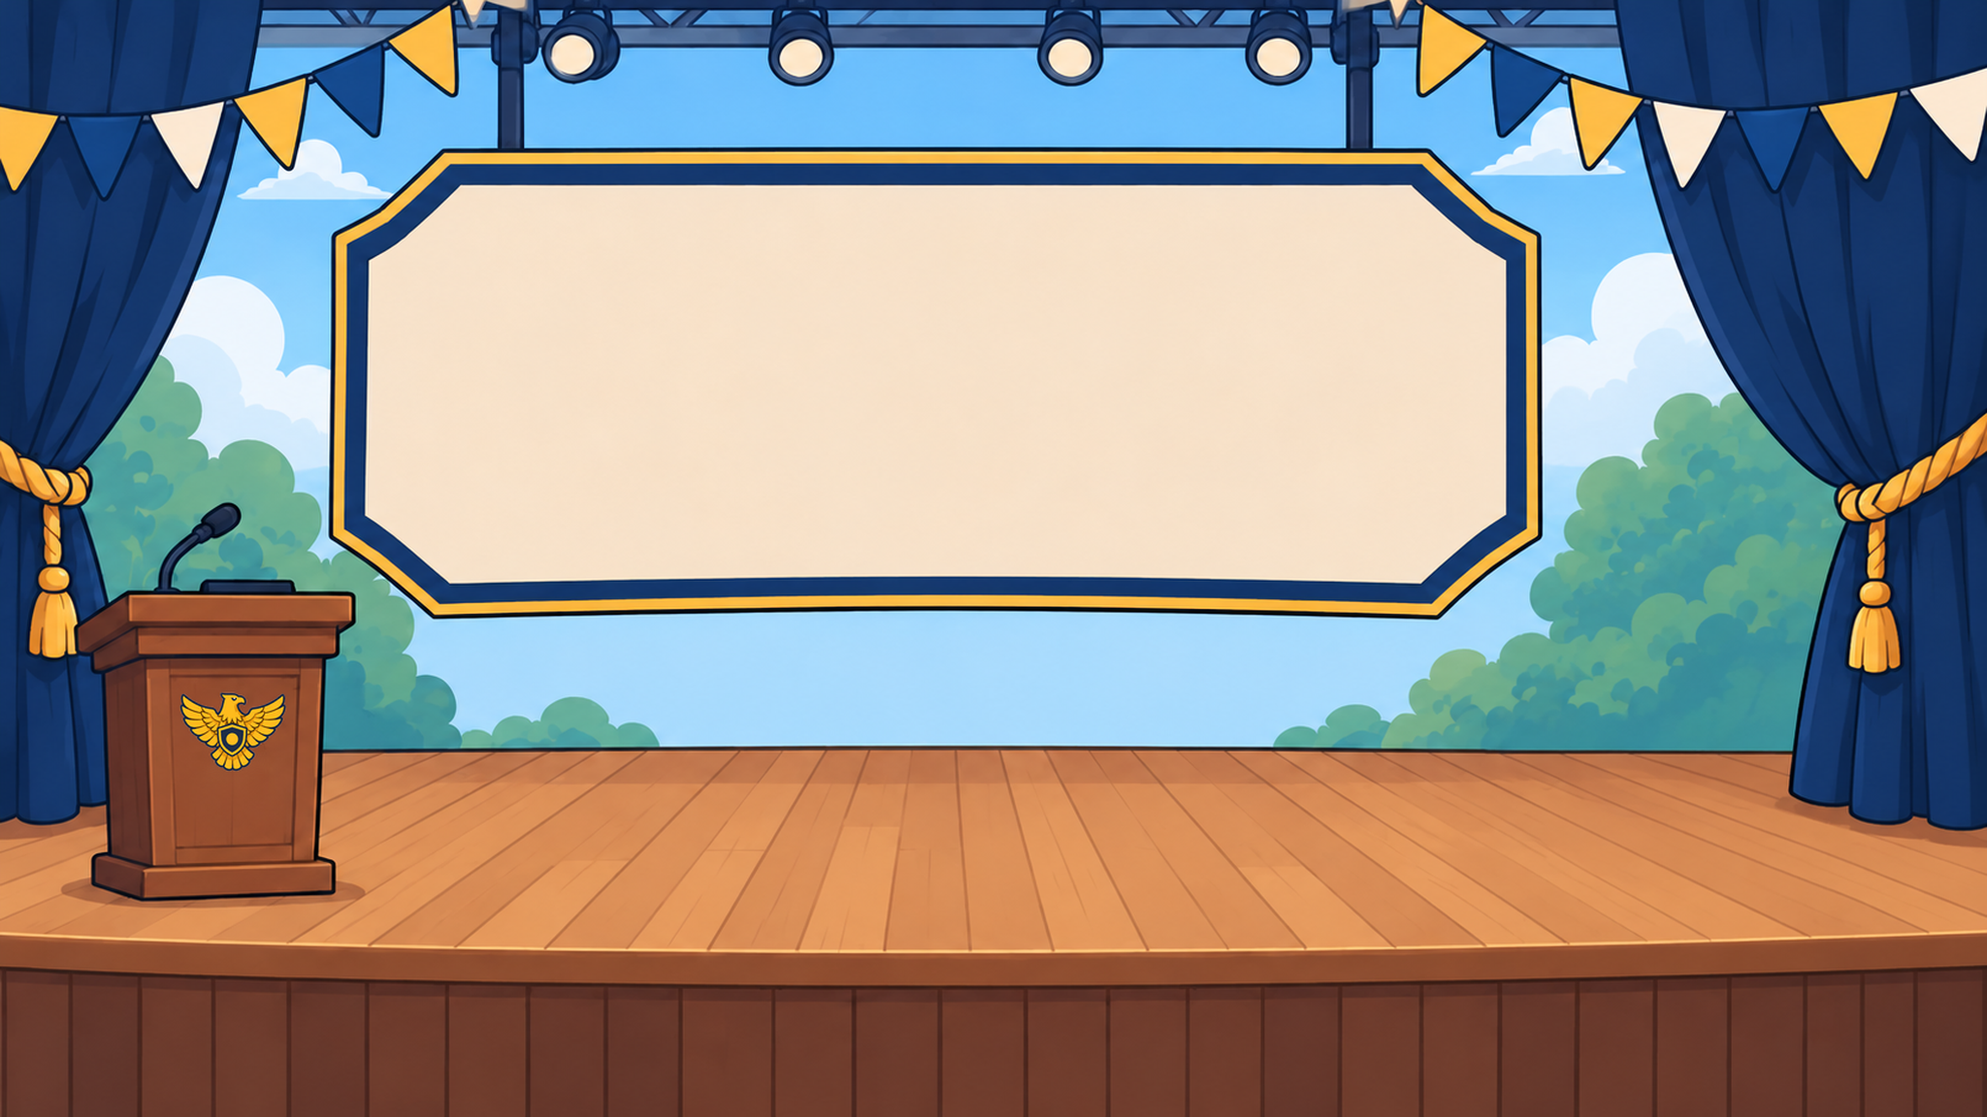
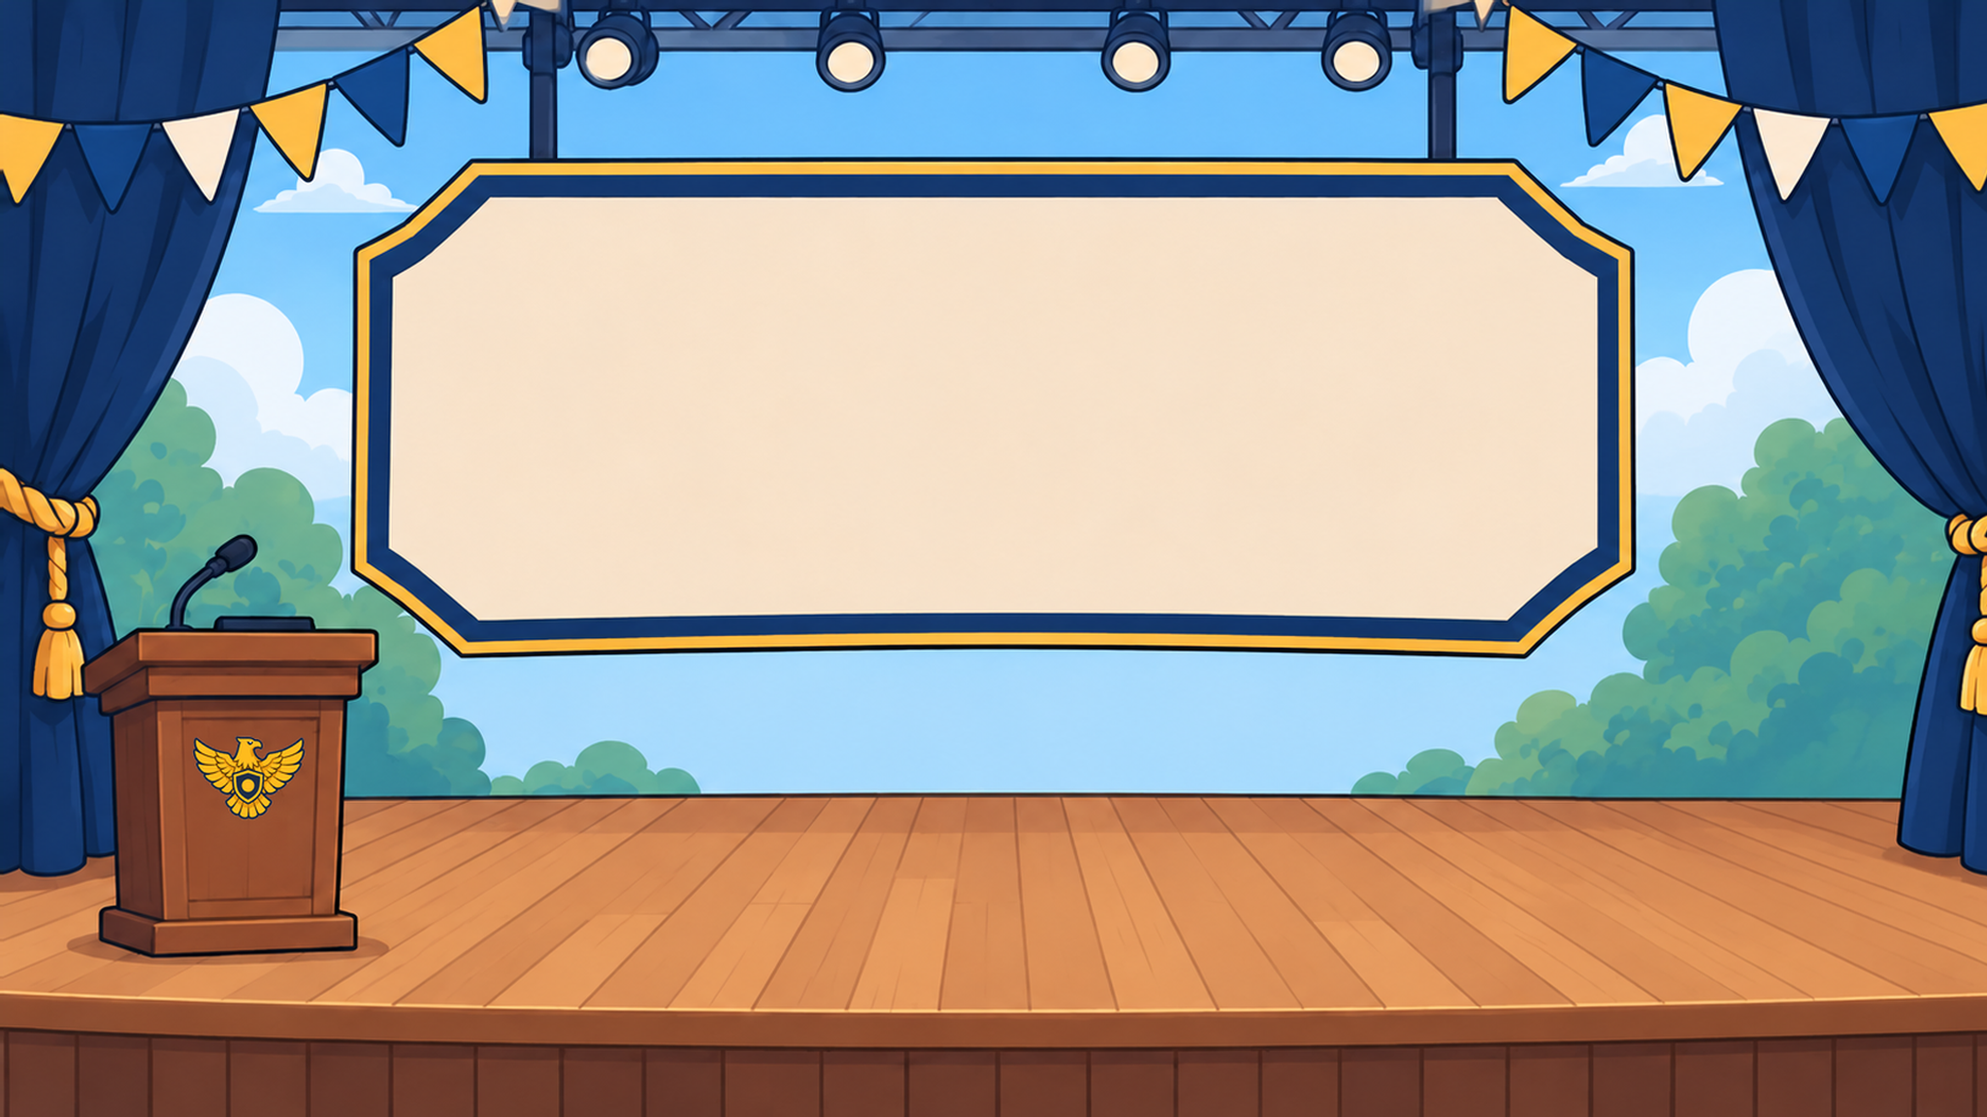
시작 화면 → 다음 화면 전환 자연스럽게: 배경 무대 위치 맞춤 + 크로스 페이드
- 대기(PC)·직업 선택(모바일) 배경이 시작 화면 무대를 6% 줄인 그림이라 넘어갈 때 간판·연단이 움직여 보였음
  → 시작 화면과 같은 위치·크기로 맞춘 그림으로 교체 (.meta·GUID 그대로)
- SceneTransition: 이전 화면을 찍어 덮고 다음 씬에서 0.45초 동안 녹아들게 (시작→대기→오프닝, 연결→직업 선택→로비)
- 문구·글자 정리 메뉴: 대기 화면 배경을 시작 화면과 같은 가운데 1920x1080, 간판 위 글자 x 0, PC 엔딩·대기 Canvas 가로 기준

Claude-Session: https://claude.ai/code/session_01DfUZ12cE8i6qKpHapnU7sm

diff --git a/MoblieClient/Assets/Editor/PeaceMakerTextPolish.cs b/MoblieClient/Assets/Editor/PeaceMakerTextPolish.cs
@@ -36,8 +36,9 @@ public static class PeaceMakerTextPolish
         // ───────── PC ─────────
         new E("HostPc", "PopupPanel/PopupTitle", "참가 인원을 선택하세요"),
         new E("HostPc", "Canvas/StatusText", ""),                                   // 쓰지 않는 글자 (경찰 그림 위에 겹쳐 보였음)
-        new E("WaitingScene", "Canvas/StatusText", "휴대폰에서 [연결]을 눌러 주세요"),
-        new E("WaitingScene", "Canvas/ConnectedText", "연결된 휴대폰  0 / 4"),
+        // 대기 화면 배경 간판이 시작 화면과 같은 가운데로 옮겨져서, 글자도 가운데(x 0)로
+        new E("WaitingScene", "Canvas/StatusText", "휴대폰에서 [연결]을 눌러 주세요", 0, 0, 0, 0, 50),
+        new E("WaitingScene", "Canvas/ConnectedText", "연결된 휴대폰  0 / 4", 0, 0, 0, 0, 250),
         new E("PC_LobbyScene", "Canvas/LobbyText", "수사 진행 중", 0, 800, 120),
         new E("PC_LobbyScene", "Canvas/ConnectedText", "연결된 휴대폰  0 / 4", 48, 700, 80, -370, 60),
         new E("PC_LobbyScene", "Canvas/TimerText", null, 0, 300, 100, -170, -70),
@@ -62,8 +63,8 @@ public static class PeaceMakerTextPolish
 
         // ───────── 모바일 ─────────
         new E("ClientMobile", "Canvas/StatusText", ""),
-        new E("JobSelectScene", "Canvas/TitleText", "직업을 선택하세요"),
-        new E("JobSelectScene", "Canvas/StatusText", ""),
+        new E("JobSelectScene", "Canvas/TitleText", "직업을 선택하세요", 0, 0, 0, 0, -250),   // 간판 가운데 (x -45 → 0)
+        new E("JobSelectScene", "Canvas/StatusText", "", 0, 0, 0, 0, 125),
         new E("JobSelectScene", "JobPopup/PopupJobName", ""),
         new E("JobSelectScene", "JobPopup/PopupJobDesc", ""),
         new E("Mobile_LobbyScene", "Canvas/TitleText", "수사 본부", 0, 600, 150),
@@ -210,7 +211,7 @@ public static class PeaceMakerTextPolish
             foreach (var root in scene.GetRootGameObjects())
                 foreach (var cs in root.GetComponentsInChildren<CanvasScaler>(true))
                 {
-                    if (cs.uiScaleMode == CanvasScaler.ScaleMode.ScaleWithScreenSize && cs.referenceResolution == new Vector2(1920, 1080)) continue;
+                    if (cs.uiScaleMode == CanvasScaler.ScaleMode.ScaleWithScreenSize && cs.referenceResolution == new Vector2(1920, 1080) && cs.matchWidthOrHeight == 0f) continue;
                     log.AppendLine($"  {cs.name}: Canvas Scaler → 화면 크기에 맞춤 (1920×1080)");
                     changes++;
                     if (dry) continue;
@@ -218,10 +219,27 @@ public static class PeaceMakerTextPolish
                     cs.uiScaleMode = CanvasScaler.ScaleMode.ScaleWithScreenSize;
                     cs.referenceResolution = new Vector2(1920, 1080);
                     cs.screenMatchMode = CanvasScaler.ScreenMatchMode.MatchWidthOrHeight;
-                    cs.matchWidthOrHeight = 0.5f;
+                    cs.matchWidthOrHeight = 0f;                       // 다른 PC 화면과 같게 (가로 기준)
                 }
 
-        // 5) 용의자 카드 배경판
+        // 5) PC 대기 화면 배경: 시작 화면과 똑같이 가운데 1920×1080 (늘이기 → 고정)
+        //    배경 그림도 시작 화면 무대와 같은 위치·크기로 맞춰 두었으므로, 넘어갈 때 그림이 움직이지 않음
+        if (scene.name == "WaitingScene")
+            foreach (var root in scene.GetRootGameObjects())
+                foreach (var rt in root.GetComponentsInChildren<RectTransform>(true))
+                {
+                    if (rt.name != "WaitingBackground") continue;
+                    var c = new Vector2(0.5f, 0.5f);
+                    if (rt.anchorMin == c && rt.anchorMax == c && rt.sizeDelta == new Vector2(1920, 1080) && rt.anchoredPosition == Vector2.zero) continue;
+                    log.AppendLine("  WaitingBackground: 화면 늘이기 → 시작 화면과 같은 가운데 1920×1080");
+                    changes++;
+                    if (dry) continue;
+                    Undo.RecordObject(rt, "문구 정리");
+                    rt.anchorMin = rt.anchorMax = c; rt.pivot = c;
+                    rt.sizeDelta = new Vector2(1920, 1080); rt.anchoredPosition = Vector2.zero;
+                }
+
+        // 6) 용의자 카드 배경판
         if (scene.name == "SuspectScene") CardBacks(scene);
     }
 

diff --git a/PCHost/Assets/Editor/PeaceMakerTextPolish.cs b/PCHost/Assets/Editor/PeaceMakerTextPolish.cs
@@ -36,8 +36,9 @@ public static class PeaceMakerTextPolish
         // ───────── PC ─────────
         new E("HostPc", "PopupPanel/PopupTitle", "참가 인원을 선택하세요"),
         new E("HostPc", "Canvas/StatusText", ""),                                   // 쓰지 않는 글자 (경찰 그림 위에 겹쳐 보였음)
-        new E("WaitingScene", "Canvas/StatusText", "휴대폰에서 [연결]을 눌러 주세요"),
-        new E("WaitingScene", "Canvas/ConnectedText", "연결된 휴대폰  0 / 4"),
+        // 대기 화면 배경 간판이 시작 화면과 같은 가운데로 옮겨져서, 글자도 가운데(x 0)로
+        new E("WaitingScene", "Canvas/StatusText", "휴대폰에서 [연결]을 눌러 주세요", 0, 0, 0, 0, 50),
+        new E("WaitingScene", "Canvas/ConnectedText", "연결된 휴대폰  0 / 4", 0, 0, 0, 0, 250),
         new E("PC_LobbyScene", "Canvas/LobbyText", "수사 진행 중", 0, 800, 120),
         new E("PC_LobbyScene", "Canvas/ConnectedText", "연결된 휴대폰  0 / 4", 48, 700, 80, -370, 60),
         new E("PC_LobbyScene", "Canvas/TimerText", null, 0, 300, 100, -170, -70),
@@ -62,8 +63,8 @@ public static class PeaceMakerTextPolish
 
         // ───────── 모바일 ─────────
         new E("ClientMobile", "Canvas/StatusText", ""),
-        new E("JobSelectScene", "Canvas/TitleText", "직업을 선택하세요"),
-        new E("JobSelectScene", "Canvas/StatusText", ""),
+        new E("JobSelectScene", "Canvas/TitleText", "직업을 선택하세요", 0, 0, 0, 0, -250),   // 간판 가운데 (x -45 → 0)
+        new E("JobSelectScene", "Canvas/StatusText", "", 0, 0, 0, 0, 125),
         new E("JobSelectScene", "JobPopup/PopupJobName", ""),
         new E("JobSelectScene", "JobPopup/PopupJobDesc", ""),
         new E("Mobile_LobbyScene", "Canvas/TitleText", "수사 본부", 0, 600, 150),
@@ -210,7 +211,7 @@ public static class PeaceMakerTextPolish
             foreach (var root in scene.GetRootGameObjects())
                 foreach (var cs in root.GetComponentsInChildren<CanvasScaler>(true))
                 {
-                    if (cs.uiScaleMode == CanvasScaler.ScaleMode.ScaleWithScreenSize && cs.referenceResolution == new Vector2(1920, 1080)) continue;
+                    if (cs.uiScaleMode == CanvasScaler.ScaleMode.ScaleWithScreenSize && cs.referenceResolution == new Vector2(1920, 1080) && cs.matchWidthOrHeight == 0f) continue;
                     log.AppendLine($"  {cs.name}: Canvas Scaler → 화면 크기에 맞춤 (1920×1080)");
                     changes++;
                     if (dry) continue;
@@ -218,10 +219,27 @@ public static class PeaceMakerTextPolish
                     cs.uiScaleMode = CanvasScaler.ScaleMode.ScaleWithScreenSize;
                     cs.referenceResolution = new Vector2(1920, 1080);
                     cs.screenMatchMode = CanvasScaler.ScreenMatchMode.MatchWidthOrHeight;
-                    cs.matchWidthOrHeight = 0.5f;
+                    cs.matchWidthOrHeight = 0f;                       // 다른 PC 화면과 같게 (가로 기준)
                 }
 
-        // 5) 용의자 카드 배경판
+        // 5) PC 대기 화면 배경: 시작 화면과 똑같이 가운데 1920×1080 (늘이기 → 고정)
+        //    배경 그림도 시작 화면 무대와 같은 위치·크기로 맞춰 두었으므로, 넘어갈 때 그림이 움직이지 않음
+        if (scene.name == "WaitingScene")
+            foreach (var root in scene.GetRootGameObjects())
+                foreach (var rt in root.GetComponentsInChildren<RectTransform>(true))
+                {
+                    if (rt.name != "WaitingBackground") continue;
+                    var c = new Vector2(0.5f, 0.5f);
+                    if (rt.anchorMin == c && rt.anchorMax == c && rt.sizeDelta == new Vector2(1920, 1080) && rt.anchoredPosition == Vector2.zero) continue;
+                    log.AppendLine("  WaitingBackground: 화면 늘이기 → 시작 화면과 같은 가운데 1920×1080");
+                    changes++;
+                    if (dry) continue;
+                    Undo.RecordObject(rt, "문구 정리");
+                    rt.anchorMin = rt.anchorMax = c; rt.pivot = c;
+                    rt.sizeDelta = new Vector2(1920, 1080); rt.anchoredPosition = Vector2.zero;
+                }
+
+        // 6) 용의자 카드 배경판
         if (scene.name == "SuspectScene") CardBacks(scene);
     }
 

diff --git a/MoblieClient/Assets/Scripts/UI/SceneTransition.cs b/MoblieClient/Assets/Scripts/UI/SceneTransition.cs
@@ -1,0 +1,94 @@
+using System.Collections;
+using UnityEngine;
+using UnityEngine.SceneManagement;
+using UnityEngine.UI;
+
+/// <summary>
+/// 화면 전환을 부드럽게: 지금 화면을 찍어 맨 위에 덮어 둔 채로 다음 씬을 불러오고,
+/// 그 사진을 천천히 투명하게 해서 이전 화면이 다음 화면으로 자연스럽게 녹아들게 합니다 (크로스 페이드).
+/// 사용: SceneManager.LoadScene("이름") 대신 SceneTransition.Load("이름")
+/// 씬에 따로 넣을 것은 없습니다 (처음 쓸 때 저절로 만들어지고 씬이 바뀌어도 남아 있음).
+/// </summary>
+public static class SceneTransition
+{
+    public const float DefaultFade = 0.45f;
+
+    public static void Load(string sceneName, float fadeSeconds = DefaultFade)
+    {
+        Runner.Get().Go(sceneName, fadeSeconds);
+    }
+
+    private class Runner : MonoBehaviour
+    {
+        private static Runner _inst;
+        private bool _busy;
+
+        public static Runner Get()
+        {
+            if (_inst == null)
+            {
+                var go = new GameObject("[SceneTransition]");
+                DontDestroyOnLoad(go);
+                _inst = go.AddComponent<Runner>();
+            }
+            return _inst;
+        }
+
+        public void Go(string sceneName, float fade)
+        {
+            if (_busy) { SceneManager.LoadScene(sceneName); return; }   // 전환 중에 또 부르면 바로 이동
+            StartCoroutine(Run(sceneName, fade));
+        }
+
+        private IEnumerator Run(string sceneName, float fade)
+        {
+            _busy = true;
+
+            // 1) 지금 화면을 그대로 찍어 둠
+            yield return new WaitForEndOfFrame();
+            Texture2D shot = null;
+            try { shot = ScreenCapture.CaptureScreenshotAsTexture(); } catch { shot = null; }
+
+            GameObject cover = null;
+            CanvasGroup group = null;
+            if (shot != null)
+            {
+                cover = new GameObject("Cover", typeof(RectTransform), typeof(Canvas), typeof(CanvasGroup), typeof(GraphicRaycaster));
+                cover.transform.SetParent(transform, false);
+                var canvas = cover.GetComponent<Canvas>();
+                canvas.renderMode = RenderMode.ScreenSpaceOverlay;
+                canvas.sortingOrder = 32000;                         // 모든 UI 보다 위
+                group = cover.GetComponent<CanvasGroup>();
+                group.blocksRaycasts = true;                         // 전환 중 두 번 눌리지 않게
+
+                var img = new GameObject("Shot", typeof(RectTransform), typeof(RawImage));
+                img.transform.SetParent(cover.transform, false);
+                var rt = (RectTransform)img.transform;
+                rt.anchorMin = Vector2.zero; rt.anchorMax = Vector2.one;
+                rt.offsetMin = Vector2.zero; rt.offsetMax = Vector2.zero;
+                img.GetComponent<RawImage>().texture = shot;
+            }
+
+            // 2) 다음 씬 불러오기 (원래와 같은 방식)
+            SceneManager.LoadScene(sceneName);
+            yield return null;
+            yield return null;                                       // 새 씬의 첫 화면이 그려질 때까지
+
+            // 3) 찍어 둔 이전 화면을 천천히 투명하게
+            if (group != null)
+            {
+                float t = 0f;
+                while (t < fade)
+                {
+                    t += Time.unscaledDeltaTime;
+                    group.alpha = 1f - Mathf.SmoothStep(0f, 1f, t / fade);
+                    yield return null;
+                }
+            }
+
+            if (cover != null) Destroy(cover);
+            if (shot != null) Destroy(shot);
+            _busy = false;
+        }
+    }
+}

diff --git a/PCHost/Assets/Scripts/UI/SceneTransition.cs b/PCHost/Assets/Scripts/UI/SceneTransition.cs
@@ -1,0 +1,94 @@
+using System.Collections;
+using UnityEngine;
+using UnityEngine.SceneManagement;
+using UnityEngine.UI;
+
+/// <summary>
+/// 화면 전환을 부드럽게: 지금 화면을 찍어 맨 위에 덮어 둔 채로 다음 씬을 불러오고,
+/// 그 사진을 천천히 투명하게 해서 이전 화면이 다음 화면으로 자연스럽게 녹아들게 합니다 (크로스 페이드).
+/// 사용: SceneManager.LoadScene("이름") 대신 SceneTransition.Load("이름")
+/// 씬에 따로 넣을 것은 없습니다 (처음 쓸 때 저절로 만들어지고 씬이 바뀌어도 남아 있음).
+/// </summary>
+public static class SceneTransition
+{
+    public const float DefaultFade = 0.45f;
+
+    public static void Load(string sceneName, float fadeSeconds = DefaultFade)
+    {
+        Runner.Get().Go(sceneName, fadeSeconds);
+    }
+
+    private class Runner : MonoBehaviour
+    {
+        private static Runner _inst;
+        private bool _busy;
+
+        public static Runner Get()
+        {
+            if (_inst == null)
+            {
+                var go = new GameObject("[SceneTransition]");
+                DontDestroyOnLoad(go);
+                _inst = go.AddComponent<Runner>();
+            }
+            return _inst;
+        }
+
+        public void Go(string sceneName, float fade)
+        {
+            if (_busy) { SceneManager.LoadScene(sceneName); return; }   // 전환 중에 또 부르면 바로 이동
+            StartCoroutine(Run(sceneName, fade));
+        }
+
+        private IEnumerator Run(string sceneName, float fade)
+        {
+            _busy = true;
+
+            // 1) 지금 화면을 그대로 찍어 둠
+            yield return new WaitForEndOfFrame();
+            Texture2D shot = null;
+            try { shot = ScreenCapture.CaptureScreenshotAsTexture(); } catch { shot = null; }
+
+            GameObject cover = null;
+            CanvasGroup group = null;
+            if (shot != null)
+            {
+                cover = new GameObject("Cover", typeof(RectTransform), typeof(Canvas), typeof(CanvasGroup), typeof(GraphicRaycaster));
+                cover.transform.SetParent(transform, false);
+                var canvas = cover.GetComponent<Canvas>();
+                canvas.renderMode = RenderMode.ScreenSpaceOverlay;
+                canvas.sortingOrder = 32000;                         // 모든 UI 보다 위
+                group = cover.GetComponent<CanvasGroup>();
+                group.blocksRaycasts = true;                         // 전환 중 두 번 눌리지 않게
+
+                var img = new GameObject("Shot", typeof(RectTransform), typeof(RawImage));
+                img.transform.SetParent(cover.transform, false);
+                var rt = (RectTransform)img.transform;
+                rt.anchorMin = Vector2.zero; rt.anchorMax = Vector2.one;
+                rt.offsetMin = Vector2.zero; rt.offsetMax = Vector2.zero;
+                img.GetComponent<RawImage>().texture = shot;
+            }
+
+            // 2) 다음 씬 불러오기 (원래와 같은 방식)
+            SceneManager.LoadScene(sceneName);
+            yield return null;
+            yield return null;                                       // 새 씬의 첫 화면이 그려질 때까지
+
+            // 3) 찍어 둔 이전 화면을 천천히 투명하게
+            if (group != null)
+            {
+                float t = 0f;
+                while (t < fade)
+                {
+                    t += Time.unscaledDeltaTime;
+                    group.alpha = 1f - Mathf.SmoothStep(0f, 1f, t / fade);
+                    yield return null;
+                }
+            }
+
+            if (cover != null) Destroy(cover);
+            if (shot != null) Destroy(shot);
+            _busy = false;
+        }
+    }
+}

diff --git a/MoblieClient/Assets/Scripts/GameManager.cs b/MoblieClient/Assets/Scripts/GameManager.cs
@@ -115,8 +115,7 @@ public class GameManager : NetworkBehaviour
     {
 #if UNITY_ANDROID
         DataManager.Instance.MaxPlayers = count;
-        UnityEngine.SceneManagement.SceneManager
-            .LoadScene("JobSelectScene");
+        SceneTransition.Load("JobSelectScene");
 #endif
     }
 
@@ -185,8 +184,7 @@ public class GameManager : NetworkBehaviour
     void LoadJobSelectSceneClientRpc()
     {
 #if UNITY_ANDROID
-        UnityEngine.SceneManagement.SceneManager
-            .LoadScene("JobSelectScene");
+        SceneTransition.Load("JobSelectScene");
 #endif
     }
 

diff --git a/PCHost/Assets/Scripts/GameManager.cs b/PCHost/Assets/Scripts/GameManager.cs
@@ -115,8 +115,7 @@ public class GameManager : NetworkBehaviour
     {
 #if UNITY_ANDROID
         DataManager.Instance.MaxPlayers = count;
-        UnityEngine.SceneManagement.SceneManager
-            .LoadScene("JobSelectScene");
+        SceneTransition.Load("JobSelectScene");
 #endif
     }
 
@@ -185,8 +184,7 @@ public class GameManager : NetworkBehaviour
     void LoadJobSelectSceneClientRpc()
     {
 #if UNITY_ANDROID
-        UnityEngine.SceneManagement.SceneManager
-            .LoadScene("JobSelectScene");
+        SceneTransition.Load("JobSelectScene");
 #endif
     }
 

diff --git a/MoblieClient/Assets/Scripts/MobileJobSelect.cs b/MoblieClient/Assets/Scripts/MobileJobSelect.cs
@@ -171,7 +171,7 @@ public class MobileJobSelect : MonoBehaviour
         selectedJob = jobName;
         statusText.text = $"{jobName} 선택 완료!";
         DataManager.Instance.SelectedJob = jobName;
-        SceneManager.LoadScene("Mobile_LobbyScene");
+        SceneTransition.Load("Mobile_LobbyScene");
     }
 
     public void OnJobRejected(string jobName)

diff --git a/PCHost/Assets/Scripts/PCHostUI.cs b/PCHost/Assets/Scripts/PCHostUI.cs
@@ -153,7 +153,7 @@ public class PCHostUI : MonoBehaviour
             InstanceFinder.ServerManager.Spawn(obj);
         }
         yield return new WaitForSeconds(0.3f);
-        SceneManager.LoadScene("WaitingScene");
+        SceneTransition.Load("WaitingScene");
     }
 
     void OnDestroy()

diff --git a/PCHost/Assets/Scripts/WaitingSceneUI.cs b/PCHost/Assets/Scripts/WaitingSceneUI.cs
@@ -77,7 +77,7 @@ public class WaitingSceneUI : MonoBehaviour
         var gm2 = FindFirstObjectByType<GameManager>();
         gm2?.LoadJobSelectSceneServerRpc();
 
-        SceneManager.LoadScene("OpeningScene");
+        SceneTransition.Load("OpeningScene");
     }
 
     void UpdateUI()

diff --git a/MoblieClient/Assets/Scripts/MobileClientUI.cs b/MoblieClient/Assets/Scripts/MobileClientUI.cs
@@ -300,7 +300,7 @@ public class MobileClientUI : MonoBehaviour
     {
         yield return null;
         Debug.Log($"[Mobile] 씬 이동: {nextSceneName}");
-        SceneManager.LoadScene(nextSceneName);
+        SceneTransition.Load(nextSceneName);
     }
 
     void OnDestroy()
